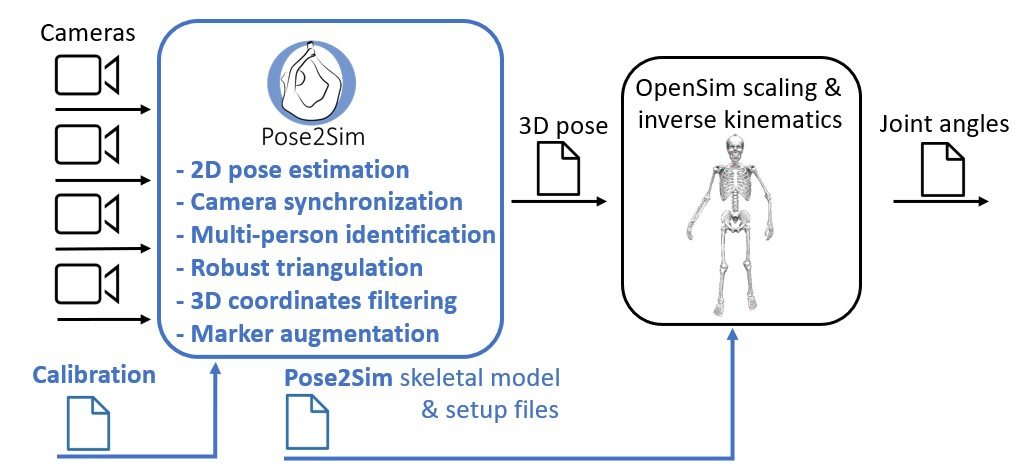
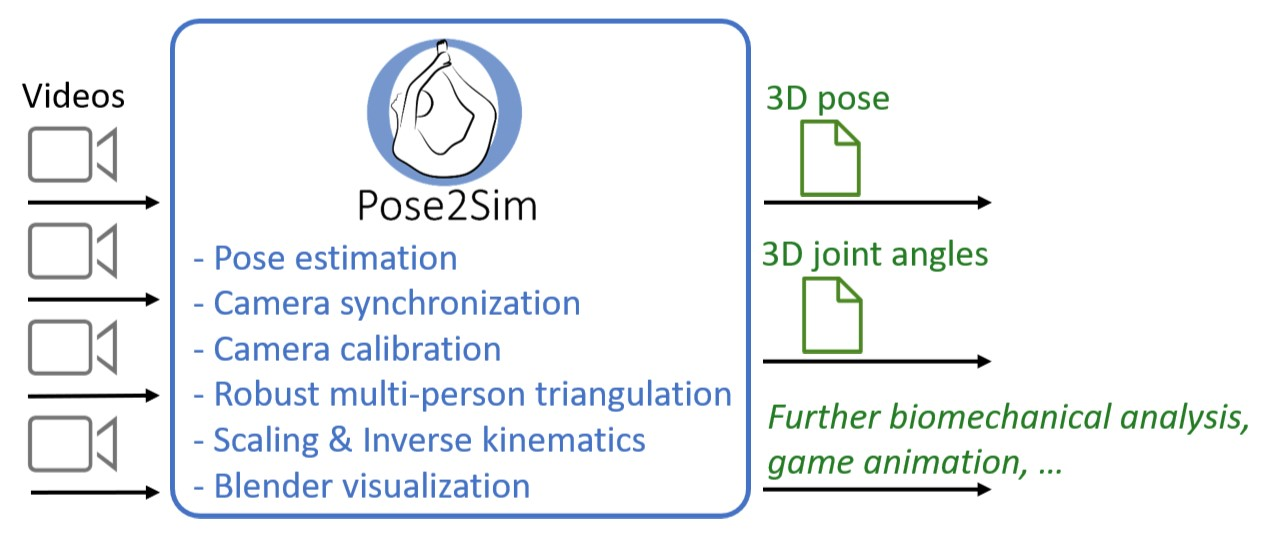
beta: opensim integration

Changed region(s): [[0.0, 0.0299, 0.9884, 0.9872], [0.8649, 0.3889, 0.9575, 0.4487]]

diff --git a/Pose2Sim/Pose2Sim.py b/Pose2Sim/Pose2Sim.py
@@ -39,7 +39,7 @@ Pose2Sim.personAssociation()
 Pose2Sim.triangulation()
 Pose2Sim.filtering()
 Pose2Sim.markerAugmentation()
-Pose2Sim.opensimProcessing()
+Pose2Sim.kinematics()
 # Then run OpenSim (see Readme.md)
 '''
 
@@ -158,7 +158,6 @@ def read_config_files(config):
     return level, config_dicts
 
 
-
 def calibration(config=None):
     '''
     Cameras calibration from checkerboards or from qualisys files.
@@ -192,7 +191,11 @@ def calibration(config=None):
     logging.info("---------------------------------------------------------------------\n")
     start = time.time()
 
-    calibrate_cams_all(config_dict)
+    try:
+        calibrate_cams_all(config_dict)
+    except Exception as e:
+        logging.error(f"Error during calibration: {e}")
+        return
 
     end = time.time()
     logging.info(f'\nCalibration took {end-start:.2f} s.\n')
@@ -236,7 +239,11 @@ def poseEstimation(config=None):
         logging.info(f"Project directory: {project_dir}")
         logging.info("---------------------------------------------------------------------\n")
 
-        rtm_estimator(config_dict)
+        try:
+            rtm_estimator(config_dict)
+        except Exception as e:
+            logging.error(f"Error during pose estimation: {e}")
+            continue
 
         end = time.time()
         elapsed = end - start
@@ -280,7 +287,11 @@ def synchronization(config=None):
         logging.info(f"Project directory: {project_dir}")
         logging.info("---------------------------------------------------------------------\n")
 
-        synchronize_cams_all(config_dict)
+        try:
+            synchronize_cams_all(config_dict)
+        except Exception as e:
+            logging.error(f"Error during synchronization: {e}")
+            continue
 
         end = time.time()
         elapsed = end-start
@@ -327,7 +338,11 @@ def personAssociation(config=None):
         logging.info(f"Project directory: {project_dir}")
         logging.info("---------------------------------------------------------------------\n")
 
-        track_2d_all(config_dict)
+        try:
+            track_2d_all(config_dict)
+        except Exception as e:
+            logging.error(f"Error during person association: {e}")
+            continue
 
         end = time.time()
         elapsed = end-start
@@ -373,7 +388,11 @@ def triangulation(config=None):
         logging.info(f"Project directory: {project_dir}")
         logging.info("---------------------------------------------------------------------\n")
 
-        triangulate_all(config_dict)
+        try:
+            triangulate_all(config_dict)
+        except Exception as e:
+            logging.error(f"Error during triangulation: {e}")
+            continue
 
         end = time.time()
         elapsed = end-start
@@ -418,7 +437,11 @@ def filtering(config=None):
         logging.info(f"Project directory: {project_dir}\n")
         logging.info("---------------------------------------------------------------------\n")
 
-        filter_all(config_dict)
+        try:
+            filter_all(config_dict)
+        except Exception as e:
+            logging.error(f"Error during filtering: {e}")
+            continue
 
         logging.info('\n')
 
@@ -459,31 +482,32 @@ def markerAugmentation(config=None):
         logging.info(f"Project directory: {project_dir}")
         logging.info("---------------------------------------------------------------------\n")
 
-        augmentTRC(config_dict)
+        try:
+            augmentTRC(config_dict)
+        except Exception as e:
+            logging.error(f"Error during marker augmentation: {e}")
+            continue
 
         end = time.time()
         elapsed = end-start
         logging.info(f'\nMarker augmentation took {time.strftime("%Hh%Mm%Ss", time.gmtime(elapsed))}.\n')
 
 
-def opensimProcessing(config=None):
+def kinematics(config=None):
     '''
     Performing OpenSim scaling and inverse kinematics.
-    Selected the 10% slowest frames from trc for scaling
-    Saved as .osim and .mot
+    Select the 10% slowest frames from trc for scaling
+    Save scaled model as .osim and output motion as .mot
 
     config can be a dictionary,
     or a the directory path of a trial, participant, or session,
     or the function can be called without an argument, in which case it the config directory is the current one.
     '''
 
-    from Pose2Sim.kinematics import opensimProcessing
-
-    # Read the configuration files
+    from Pose2Sim.kinematics import kinematics
     level, config_dicts = read_config_files(config)
 
-    # Ensure the configuration is properly structured
-    if isinstance(config, dict):
+    if type(config) == dict:
         config_dict = config_dicts[0]
         if config_dict.get('project').get('project_dir') is None:
             raise ValueError('Please specify the project directory in config_dict:\n \
@@ -502,24 +526,23 @@ def opensimProcessing(config=None):
         frames = ["all frames" if frame_range == [] else f"frames {frame_range[0]} to {frame_range[1]}"][0]
 
         logging.info("\n---------------------------------------------------------------------")
-        logging.info(f"OpenSim processing for {seq_name}, for {frames}.")
+        logging.info(f"OpenSim scaling and inverse kinematics for {seq_name}, for {frames}.")
         logging.info(f"On {currentDateAndTime.strftime('%A %d. %B %Y, %H:%M:%S')}")
         logging.info(f"Project directory: {project_dir}")
         logging.info("---------------------------------------------------------------------\n")
 
         try:
-            opensimProcessing(config_dict)
-
+            kinematics(config_dict)
         except Exception as e:
             logging.error(f"Error during OpenSim processing: {e}")
             continue
 
         end = time.time()
         elapsed = end - start
-        logging.info(f'\nOpenSim processing took {time.strftime("%Hh%Mm%Ss", time.gmtime(elapsed))}.\n')
+        logging.info(f'\nOpenSim scaling and inverse kinematics took {time.strftime("%Hh%Mm%Ss", time.gmtime(elapsed))}.\n')
 
 
-def runAll(config=None, do_calibration=True, do_poseEstimation=True, do_synchronization=True, do_personAssociation=True, do_triangulation=True, do_filtering=True, do_markerAugmentation=True, do_opensimProcessing=True):
+def runAll(config=None, do_calibration=True, do_poseEstimation=True, do_synchronization=True, do_personAssociation=True, do_triangulation=True, do_filtering=True, do_markerAugmentation=True, do_kinematics=True):
     '''
     Run all functions at once. Beware that Synchronization, personAssociation, and markerAugmentation are not always necessary,
     and may even lead to worse results. Think carefully before running all.
@@ -610,11 +633,11 @@ def runAll(config=None, do_calibration=True, do_poseEstimation=True, do_synchron
         logging.info('Skipping marker augmentation.')
         logging.info("\n\n=====================================================================")
 
-    if do_opensimProcessing:
+    if do_kinematics:
         logging.info("\n\n=====================================================================")
         logging.info("Running OpenSim processing.")
         logging.info("=====================================================================")
-        opensimProcessing(config)
+        kinematics(config)
     else:
         logging.info("\n\n=====================================================================")
         logging.info('Skipping OpenSim processing.')

diff --git a/Pose2Sim/Utilities/tests.py b/Pose2Sim/Utilities/tests.py
@@ -7,31 +7,49 @@
     ## Pose2Sim tests                     ##
     ########################################
     
-    - BATCH SESSION:
-        - Calibration conversion from .qca.txt
-        - Single person:
-            - synchronization
-            - person association
-            - triangulation
-            - filtering
-            - marker augmentation
-            - opensim processing
-        - Multi-person:
-            - synchronization
-            - person association
-            - triangulation
-            - filtering
-            - marker augmentation
-            - opensim processing
-            
-    - SINGLE TRIAL:
-        - calibration
+    - SINGLE PERSON:
+        - calibration conversion from .qca.txt
+        - pose estimation
         - synchronization
         - person association
         - triangulation
         - filtering
         - marker augmentation
-        - opensim processing
+        - opensim scaling and inverse kinematics
+        
+        - run all
+
+    - MULTI PERSON:
+        - calibration conversion from .qca.txt
+        - pose estimation
+        - NO synchronization
+        - person association
+        - triangulation
+        - filtering
+        - marker augmentation
+        - opensim scaling and inverse kinematics
+
+        - run all
+
+    - BATCH SESSION, RUN ALL:
+        - Calibration conversion from .qca.txt
+        - Single person:
+            - pose estimation
+            - NO synchronization
+            - person association
+            - triangulation
+            - filtering
+            - marker augmentation
+            - opensim scaling and inverse kinematics
+        - Multi-person:
+            - pose estimation
+            - NO synchronization
+            - person association
+            - triangulation
+            - filtering
+            - marker augmentation
+            - opensim scaling and inverse kinematics
+            
 
     N.B.: 
     1. Calibration from scene dimensions is not tested, as it requires the 
@@ -77,13 +95,12 @@ class TestWorkflow(unittest.TestCase):
             - triangulation
             - filtering
             - marker augmentation
-            - OpenSim processing
+            - opensim scaling and inverse kinematics
             - run all
 
         N.B.: Calibration from scene dimensions is not tested, as it requires the 
         user to click points on the image. 
         Not all possible configuration parameters are extensively tested.
-        Scaling and inverse kinematics are not tested yet.
         
         Usage: 
         from Pose2Sim import tests; tests.test_workflow()
@@ -103,7 +120,6 @@ class TestWorkflow(unittest.TestCase):
         config_dict.get("pose").update({"mode":'lightweight'})
         config_dict.get("pose").update({"display_detection":False})
         config_dict.get("synchronization").update({"display_sync_plots":False})
-        # config_dict['triangulation']['reorder_trc'] = False
         config_dict['filtering']['display_figures'] = False
 
         Pose2Sim.calibration(config_dict)
@@ -113,7 +129,7 @@ class TestWorkflow(unittest.TestCase):
         Pose2Sim.triangulation(config_dict)
         Pose2Sim.filtering(config_dict)
         Pose2Sim.markerAugmentation(config_dict)
-        Pose2Sim.opensimProcessing(config_dict)
+        Pose2Sim.kinematics(config_dict)
 
         config_dict.get("pose").update({"overwrite_pose":False})
         Pose2Sim.runAll(config_dict)
@@ -141,7 +157,7 @@ class TestWorkflow(unittest.TestCase):
         Pose2Sim.triangulation(config_dict)
         Pose2Sim.filtering(config_dict)
         Pose2Sim.markerAugmentation(config_dict)
-        Pose2Sim.opensimProcessing(config_dict)
+        Pose2Sim.kinematics(config_dict)
 
         # Run all
         config_dict.get("pose").update({"overwrite_pose":False})

diff --git a/Pose2Sim/triangulation.py b/Pose2Sim/triangulation.py
@@ -735,7 +735,6 @@ def triangulate_all(config_dict):
     multi_person = config_dict.get('project').get('multi_person')
     pose_model = config_dict.get('pose').get('pose_model')
     frame_range = config_dict.get('project').get('frame_range')
-    reorder_trc = config_dict.get('triangulation').get('reorder_trc')
     likelihood_threshold = config_dict.get('triangulation').get('likelihood_threshold_triangulation')
     interpolation_kind = config_dict.get('triangulation').get('interpolation')
     interp_gap_smaller_than = config_dict.get('triangulation').get('interp_if_gap_smaller_than')
@@ -977,21 +976,21 @@ def triangulate_all(config_dict):
     if make_c3d:
         c3d_paths = [convert_to_c3d(t) for t in trc_paths]
         
-    # Reorder TRC files
-    if multi_person and reorder_trc and len(trc_paths)>1:
-        trc_id = retrieve_right_trc_order(trc_paths)
-        [os.rename(t, t+'.old') for t in trc_paths]
-        [os.rename(t+'.old', trc_paths[i]) for i, t in zip(trc_id,trc_paths)]
-        if make_c3d:
-            [os.rename(c, c+'.old') for c in c3d_paths]
-            [os.rename(c+'.old', c3d_paths[i]) for i, c in zip(trc_id,c3d_paths)]
-        error_tot = [error_tot[i] for i in trc_id]
-        nb_cams_excluded_tot = [nb_cams_excluded_tot[i] for i in trc_id]
-        cam_excluded_count = [cam_excluded_count[i] for i in trc_id]
-        interp_frames = [interp_frames[i] for i in trc_id]
-        non_interp_frames = [non_interp_frames[i] for i in trc_id]
+    # # Reorder TRC files
+    # if multi_person and reorder_trc and len(trc_paths)>1:
+    #     trc_id = retrieve_right_trc_order(trc_paths)
+    #     [os.rename(t, t+'.old') for t in trc_paths]
+    #     [os.rename(t+'.old', trc_paths[i]) for i, t in zip(trc_id,trc_paths)]
+    #     if make_c3d:
+    #         [os.rename(c, c+'.old') for c in c3d_paths]
+    #         [os.rename(c+'.old', c3d_paths[i]) for i, c in zip(trc_id,c3d_paths)]
+    #     error_tot = [error_tot[i] for i in trc_id]
+    #     nb_cams_excluded_tot = [nb_cams_excluded_tot[i] for i in trc_id]
+    #     cam_excluded_count = [cam_excluded_count[i] for i in trc_id]
+    #     interp_frames = [interp_frames[i] for i in trc_id]
+    #     non_interp_frames = [non_interp_frames[i] for i in trc_id]
         
-        logging.info('\nThe trc and c3d files have been renamed to match the order of the static sequences.')
+    #     logging.info('\nThe trc and c3d files have been renamed to match the order of the static sequences.')
 
 
     # Recap message

diff --git a/Pose2Sim/markerAugmentation.py b/Pose2Sim/markerAugmentation.py
@@ -36,7 +36,7 @@ from Pose2Sim.common import convert_to_c3d, natural_sort_key
 ## AUTHORSHIP INFORMATION
 __author__ = "Antoine Falisse, adapted by HunMin Kim and David Pagnon"
 __copyright__ = "Copyright 2022, OpenCap"
-__credits__ = ["Antoine Falisse", "HunMin Kim"]
+__credits__ = ["Antoine Falisse", "HunMin Kim", "David Pagnon"]
 __license__ = "Apache-2.0 License"
 __version__ = "0.9.4"
 __maintainer__ = "David Pagnon"

diff --git a/Pose2Sim/Utilities/calib_qca_to_toml.py b/Pose2Sim/Utilities/calib_qca_to_toml.py
@@ -39,9 +39,9 @@ __status__ = "Development"
 
 ## FUNCTIONS
 def natural_sort_key(s):
-    """
+    '''
     Key for natural sorting of strings containing numbers.
-    """
+    '''
     return [int(c) if c.isdigit() else c.lower() for c in re.split(r'(\d+)', s)]
 
 
